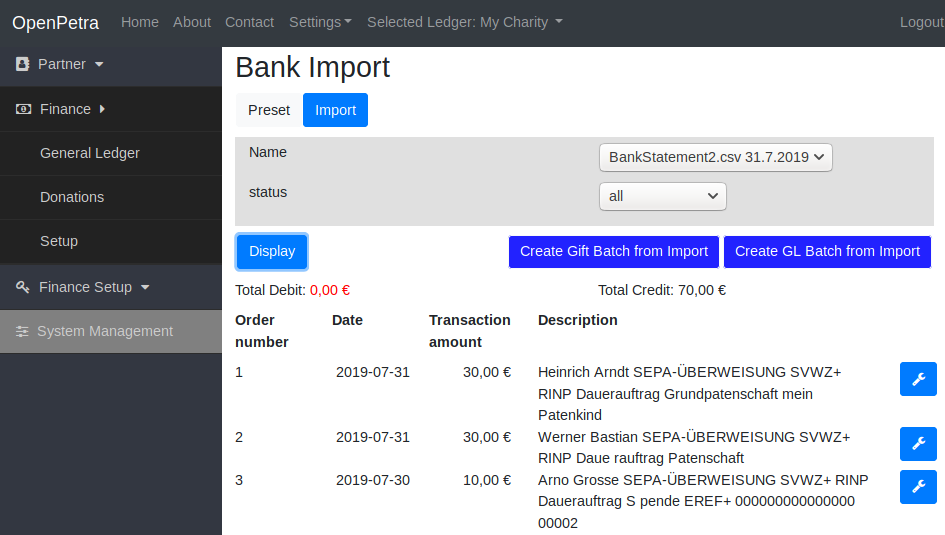
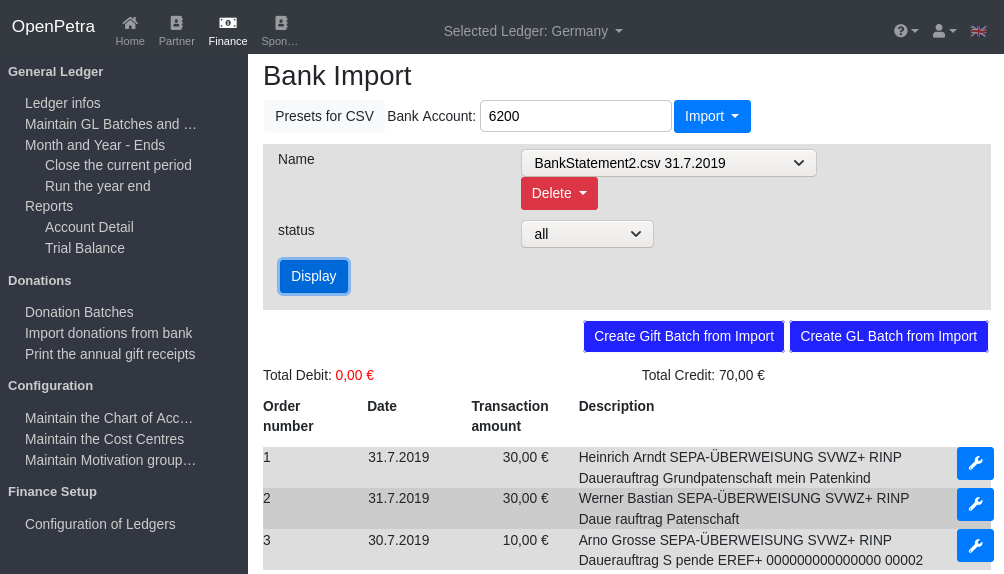
update the docs on bank import for CAMT and MT940 and CSV

diff --git a/source/howtos/finance-donations.rst b/source/howtos/finance-donations.rst
@@ -112,22 +112,34 @@ Process Donations semi-automatically from bank statement
 
 It is advisable to not enter each donation manually.
 
-Your bank probably offers to download the bank statement as a CSV or CAMT file.
+Your bank probably offers to download the bank statement as a CSV or CAMT file. Perhaps even MT940 files are still being offered.
 
-At the moment OpenPetra only supports processing bank statements as CSV files,
-but the support for CAMT is basically finished, and can be activated if needed.
+OpenPetra supports processing bank statements as CSV files or MT940 files.
+The support for CAMT files is also available, and it is recommended since that is future proof.
+Both the import of CAMT.052 and also CAMT.053 is supported, and you can even import ZIP files containing multiple CAMT files.
 
-At the first run you need to specify some settings, because each bank has a different format for their CSV Fi.e.
-Just click on the button 'Preset'.
+
+.. _figure-bankimport_import:
+
+.. figure:: images/bankimport_import.png
+   :scale: 50%
+
+   Import of CSV file, CAMT file or MT940 file
+
+Import of CSV files
+-------------------
+
+For the import of CAMT or MT940 files you don't need to specify any settings, so that is much easier and therefore recommended to use CAMT files.
+
+For the import of CSV files you must click the button 'Presets for CSV', and you will get to this form.
+You will only need to specify these settings once for the first run, because each bank has a different format for their CSV File.
 
 .. _figure-bankimport_settings:
 
 .. figure:: images/bankimport_settings.png
    :scale: 50%
 
-   Settings for bank import
-
-The bank account is that account which receives all the donations, and the bank statement is about this account.
+   Settings for bank import from CSV files
 
 Only start evaluation lines below this line: This describes the content of the line, that is above the actual transactions.
 So this is usually the line with the captions of the columns.
@@ -172,7 +184,25 @@ This is how an example file can look like: (you can download it here: https://gi
    "30.07.2019";"30.07.2019";"Arno Grosse SEPA-ÜBERWEISUNG SVWZ+ RINP Dauerauftrag S pende EREF+ 000000000000000 00002";"10,00";"EUR";""
    "* noch nicht ausgeführte Umsätze"
 
-You have the choice to set the 'Status', whether you want to see all transactions, or only matched donations, etc.
+Example file for CAMT
+---------------------
+
+An example CAMT file can be downloaded here: https://github.com/openpetra/openpetra/blob/master/csharp/ICT/Testing/lib/MFinance/server/BankImport/camt_testfile.52.xml
+
+
+Example file for MT940
+----------------------
+
+An example MT940 file can be downloaded here: https://github.com/openpetra/openpetra/blob/master/csharp/ICT/Testing/lib/MFinance/server/BankImport/mt940test.sta
+
+
+Import of bank statements
+-------------------------
+
+For all file formats this is true: You must select the bank account, before clicking the 'Import' button.
+The bank account is that account which receives all the donations, and the bank statement is about this account.
+
+After importing the file you have the choice to set the 'Status', whether you want to see all transactions, or only matched donations, etc.
 Then click the button 'Display'.
 
 In the example, that would look like this:
@@ -183,6 +213,9 @@ In the example, that would look like this:
    :scale: 50%
 
    View of the bank transactions
+
+Edit the transactions
+---------------------
 
 You can edit a transaction, and assign whether this transaction should be processed as a donation.
 You assign the donor, and the purpose of the donation.
